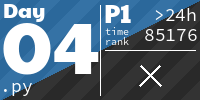
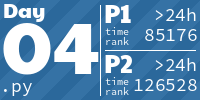
[2024][DAY 4] add solution 2

diff --git a/2024/day04.py b/2024/day04.py
@@ -39,8 +39,36 @@ def solve_part_I():
         new_lines.append(new_line)
     result += transpose_and_search(new_lines)
 
-    print(result)
+    print("Part I:", result)
 
 
+def is_x_mas(pos_a, lines):
+    if pos_a[0] == 0 or pos_a[0] == len(lines) - 1 or pos_a[1] == 0 or pos_a[1] == len(lines[0]) - 1:
+        return False
+
+    diag_1 = f"{lines[pos_a[0] - 1][pos_a[1] - 1]}A{lines[pos_a[0] + 1][pos_a[1] + 1]}"
+    diag_2 = f"{lines[pos_a[0] + 1][pos_a[1] - 1]}A{lines[pos_a[0] - 1][pos_a[1] + 1]}"
+
+    if diag_1 in ['MAS', 'SAM'] and diag_2 in ['MAS', 'SAM']:
+        return True
+
+    return False
+
+
+def solve_part_ii():
+    lines = [line.strip() for line in open(filepath)]
+    all_a_positions = []
+    for i, row in enumerate(lines):
+        for j, sign in enumerate(row):
+            if sign == 'A':
+                all_a_positions.append((i,j))
+
+    result = 0
+    for pos_a in all_a_positions:
+        if is_x_mas(pos_a, lines):
+            result += 1
+
+    print("Part II:", result)
 
 solve_part_I()
+solve_part_ii()

diff --git a/README.md b/README.md
@@ -1,6 +1,6 @@
 <!-- AOC TILES BEGIN -->
 <h1 align="center">
-  2024 - 36 ⭐ - Python
+  2024 - 37 ⭐ - Python
 </h1>
 <a href="2024/day01.py">
   <img src=".aoc_tiles/tiles/2024/01.png" width="161px">
